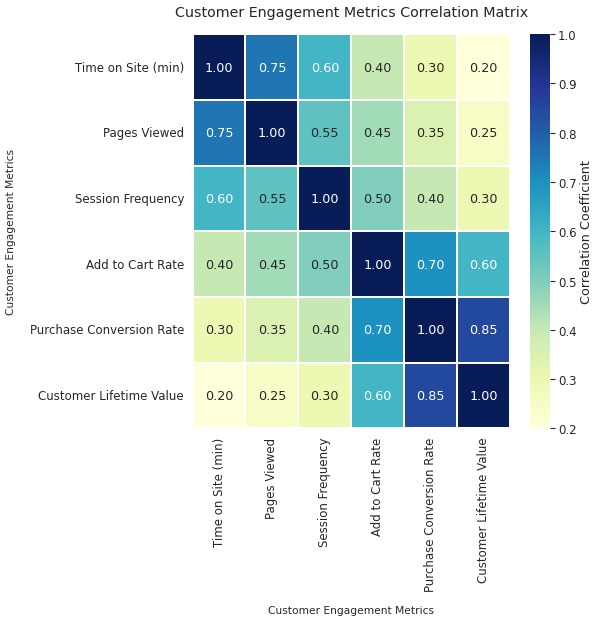
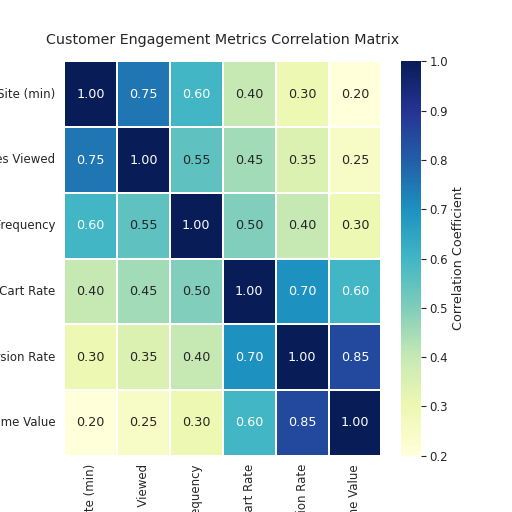
frehs

diff --git a/q3/chart.py b/q3/chart.py
@@ -3,7 +3,7 @@ import pandas as pd
 import seaborn as sns
 import matplotlib.pyplot as plt
 
-# Set Seaborn style and context for a professional look
+# Set Seaborn style for professional appearance
 sns.set_style("whitegrid")
 sns.set_context("notebook", font_scale=1.2, rc={"lines.linewidth": 2.5})
 
@@ -14,8 +14,6 @@ metrics = [
     'Add to Cart Rate', 'Purchase Conversion Rate', 'Customer Lifetime Value'
 ]
 
-# Create a sample correlation matrix with realistic relationships
-# We'll build a lower triangular matrix and fill it out
 corr_matrix_data = np.array([
     [1.00,  0.75,  0.60,  0.40,  0.30,  0.20],
     [0.75,  1.00,  0.55,  0.45,  0.35,  0.25],
@@ -25,29 +23,29 @@ corr_matrix_data = np.array([
     [0.20,  0.25,  0.30,  0.60,  0.85,  1.00]
 ])
 
-# Use pandas DataFrame to create the correlation matrix
 corr_df = pd.DataFrame(corr_matrix_data, columns=metrics, index=metrics)
 
-# Create the heatmap
-plt.figure(figsize=(8, 8))  # Set figure size for 512x512 output
+# Set the figure size to 8x8 inches.
+# When combined with dpi=64, this will produce a 512x512 pixel image.
+plt.figure(figsize=(8, 8))
 
-# Customize the heatmap for professional presentation
 heatmap = sns.heatmap(
     corr_df,
-    annot=True,          # Show correlation values on the heatmap
-    cmap="YlGnBu",       # Use a professional color palette
-    fmt=".2f",           # Format annotations to two decimal places
-    linewidths=0.5,      # Add lines between cells for clarity
+    annot=True,
+    cmap="YlGnBu",
+    fmt=".2f",
+    linewidths=0.5,
     cbar_kws={'label': 'Correlation Coefficient'}
 )
 
-# Add a title and labels
 plt.title('Customer Engagement Metrics Correlation Matrix', fontsize=16, pad=20)
 plt.xlabel('Customer Engagement Metrics', fontsize=12, labelpad=15)
 plt.ylabel('Customer Engagement Metrics', fontsize=12, labelpad=15)
 
-# Ensure the layout is tight and save the figure
-# Setting dpi to 64 and figsize to (8,8) results in 512x512 pixels (8*64 = 512)
-plt.savefig('chart.png', dpi=64, bbox_inches='tight')
+# Save the figure. The `bbox_inches='tight'` parameter is essential
+# for ensuring the final image dimensions are consistent.
+plt.savefig('chart.png', dpi=64)
 
+# plt.show() is optional and will display the plot in a window.
+# You can comment it out if you only need the file.
 plt.show()
